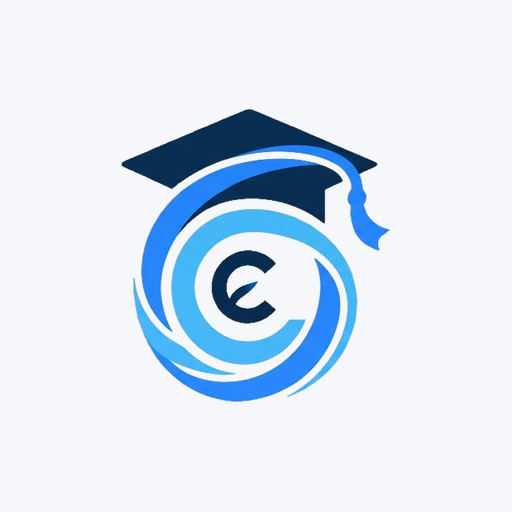
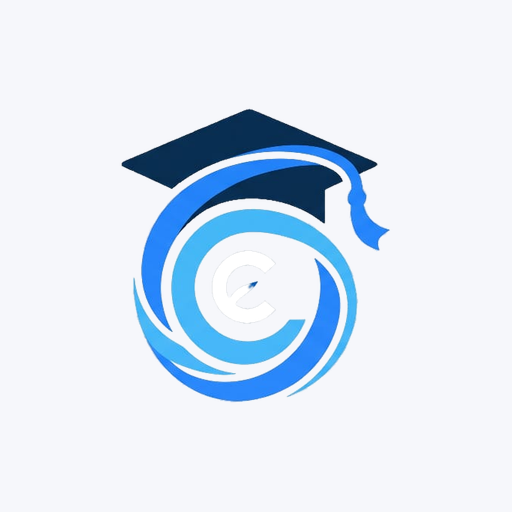
Added white colour to C

Changed region(s): [[0.4062, 0.4688, 0.5312, 0.6562]]

diff --git a/scripts/generate-logo-assets.py b/scripts/generate-logo-assets.py
@@ -80,6 +80,20 @@ APPLE_FILL = 0.72         # iOS adds its own crop/padding
 FAVICON_FILL = 0.92
 ICON_BG = (246, 247, 251, 255)  # manifest background_color #f6f7fb
 
+# --- "C" monogram recolouring --------------------------------------------
+# The central 'C' is navy artwork. Set LETTER_COLOR to a colour to repaint it
+# (e.g. (255, 255, 255) for white); set it to None to keep the source colour.
+# Only navy blobs that sit in the middle of the mark and are roughly
+# letter-sized are touched -- the graduation cap and its tassel are navy too.
+LETTER_COLOR = (255, 255, 255)
+LETTER_NAVY = (60, 90, 130)  # r<60, g<90, b<130 and (b - r) > 0 identifies navy
+LETTER_NAVY_MIN_BR = 0
+LETTER_MIN_SIZE_FRAC = 0.02   # letter must be >= 2% of all opaque pixels
+LETTER_MAX_SIZE_FRAC = 0.20   # ... and <= 20% (the cap is far bigger)
+LETTER_MAX_DIST_FRAC = 0.42   # centre must be within 42% of half-diagonal
+                               # of the artwork centre -- rejects the cap/top
+LETTER_FEATHER_PX = 1.2       # anti-alias the repainted edge
+
 # Master source, checked in this order when the script is run with no
 # arguments. Put the file you actually swap FIRST -- everything else in
 # public/ is generated output.
@@ -223,6 +237,82 @@ def clean_background(img):
     )
 
 
+def recolour_letter(logo):
+    """Repaint the central 'C' monogram to LETTER_COLOR.
+
+    The 'C' is the only navy blob that is (a) letter-sized, (b) near the middle
+    of the artwork. The graduation cap is navy as well but is both much larger
+    and sits at the top, so it is left untouched. Anti-aliased edges of the
+    chosen blob are included, then feathered so the new colour keeps a soft
+    edge instead of a jagged one.
+    """
+    if LETTER_COLOR is None:
+        return logo, None
+
+    src = np.asarray(logo.convert("RGBA")).astype(np.int16)
+    rgb, alpha = src[..., :3].astype(np.float64), src[..., 3].astype(np.float64)
+    opaque = alpha > 128
+    total = int(opaque.sum())
+    if not total:
+        return logo, None
+
+    navy_max_r, navy_max_g, navy_max_b = LETTER_NAVY
+    r, g, b = rgb[..., 0], rgb[..., 1], rgb[..., 2]
+    navy = (opaque & (r < navy_max_r) & (g < navy_max_g) & (b < navy_max_b)
+            & (b - r > LETTER_NAVY_MIN_BR))
+
+    lab, n = ndimage.label(navy, structure=np.ones((3, 3)))
+    if not n:
+        print("  no navy blob found -- 'C' colour unchanged")
+        return logo, None
+
+    h, w = navy.shape
+    cy, cx = (h - 1) / 2.0, (w - 1) / 2.0
+    diag = (h ** 2 + w ** 2) ** 0.5 / 2.0
+
+    candidates = []
+    for i in range(1, n + 1):
+        blob = lab == i
+        size = int(blob.sum())
+        if not (LETTER_MIN_SIZE_FRAC * total <= size <= LETTER_MAX_SIZE_FRAC * total):
+            continue
+        ys, xs = np.where(blob)
+        dist = (((ys.mean() - cy) ** 2 + (xs.mean() - cx) ** 2) ** 0.5) / diag
+        if dist > LETTER_MAX_DIST_FRAC:
+            continue
+        candidates.append((size, dist, i))
+
+    if not candidates:
+        print("  no central letter-sized navy blob -- 'C' colour unchanged")
+        return logo, None
+
+    # Most central blob wins: the 'C' sits at the heart of the mark, while the
+    # cap and its swoosh sit high and off to one side even when they qualify
+    # on size. Ties break towards the larger blob.
+    size, dist, idx = min(candidates, key=lambda c: (round(c[1], 3), -c[0]))
+    chosen = lab == idx
+    print(f"  'C' monogram: blob #{idx} ({size:,} px, {dist:.0%} off-centre)"
+          f" -> RGB{LETTER_COLOR}")
+
+    # Grow by 1px to swallow the anti-aliased rim of the original colour.
+    mask = ndimage.binary_dilation(chosen, structure=np.ones((3, 3)))
+    soft = np.asarray(
+        Image.fromarray((mask * 255).astype(np.uint8)).filter(
+            ImageFilter.GaussianBlur(LETTER_FEATHER_PX)
+        )
+    ).astype(np.float64) / 255.0
+    # Where the letter is, blend fully to the new colour; leave the rest be.
+    blend = np.clip(soft, 0, 1)[..., None]
+    new_rgb = rgb * (1 - blend) + np.array(LETTER_COLOR, np.float64) * blend
+    painted = (
+        Image.fromarray(
+            np.dstack([np.clip(new_rgb, 0, 255).astype(np.uint8), alpha.astype(np.uint8)])
+        ),
+        soft > 0.02,   # region we intentionally repainted
+    )
+    return painted
+
+
 def fitted(logo, size, fill_ratio, background):
     """Contain-fit the logo centred on a size x size canvas (never stretched)."""
     canvas = Image.new("RGBA", (size, size), background)
@@ -281,6 +371,8 @@ def main():
     print(f"  cropped artwork: {logo.width}x{logo.height} "
           f"from {source_rgba.width}x{source_rgba.height}")
 
+    logo, letter_mask = recolour_letter(logo)
+
     # ---------------------------------------------------------- outputs
     logo.save(out / "campusflow-logo.png", optimize=True)
     fitted(logo, 192, ANY_FILL, (0, 0, 0, 0)).save(out / "pwa-192x192.png", optimize=True)
@@ -318,16 +410,23 @@ def main():
     lum_v = rgb_v.mean(-1)
     neutral_v = spread_v <= NEUTRAL_MAX_SPREAD + 2
     opaque = al_v > 200
+    # The repainted 'C' is meant to be the new colour, so exempt it from the
+    # "no leftover light pixels" checks.
+    exempt = letter_mask if letter_mask is not None else np.zeros_like(opaque)
+    check = opaque & ~exempt
     # Anything at/above the midpoint between the chain floor and the darkest
     # background tone that is still neutral = a background cell that survived.
     flag = ((floor + min(tones)) / 2) if tones else 120
-    leftover = opaque & neutral_v & (lum_v >= flag)
-    white = opaque & (rgb_v[..., 0] > 235) & (rgb_v[..., 1] > 235) & (rgb_v[..., 2] > 235)
+    leftover = check & neutral_v & (lum_v >= flag)
+    white = check & (rgb_v[..., 0] > 235) & (rgb_v[..., 1] > 235) & (rgb_v[..., 2] > 235)
     brand = opaque & (rgb_v[..., 2] > rgb_v[..., 0]) & (rgb_v[..., 2] > 120)
     print(f"  leftover background-tone px (flag >= {flag:.0f}): "
           f"{int(leftover.sum())} (want 0)")
-    print(f"  white opaque px: {int(white.sum())} (want 0)")
+    print(f"  white opaque px outside 'C': {int(white.sum())} (want 0)")
     print(f"  brand-coloured opaque px: {int(brand.sum()):,} (must be > 0)")
+    if letter_mask is not None:
+        print(f"  'C' recoloured px: {int((opaque & exempt).sum()):,} "
+              f"(target {tuple(LETTER_COLOR)})")
     if leftover.sum() or white.sum() or not brand.any():
         raise SystemExit("FAILED: verification did not pass")
     print("OK")
